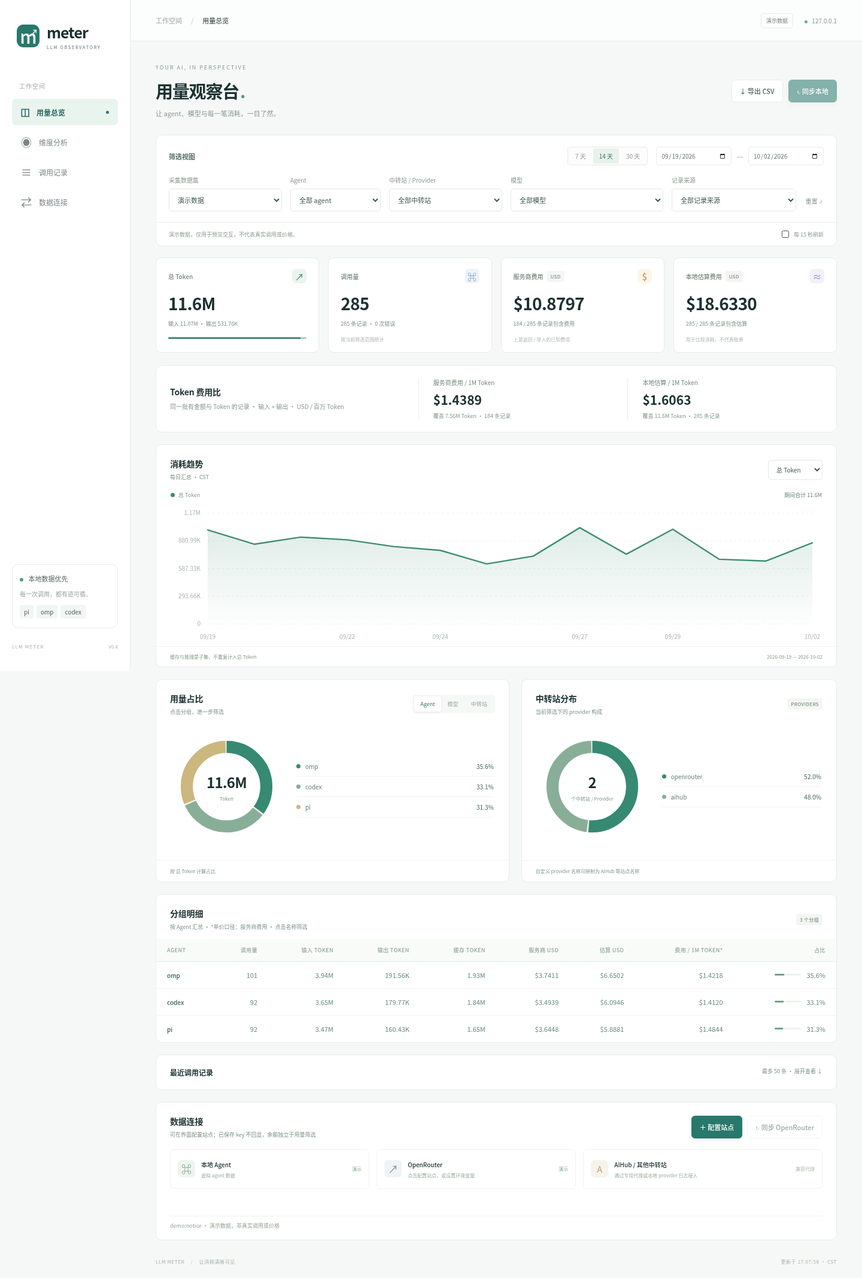
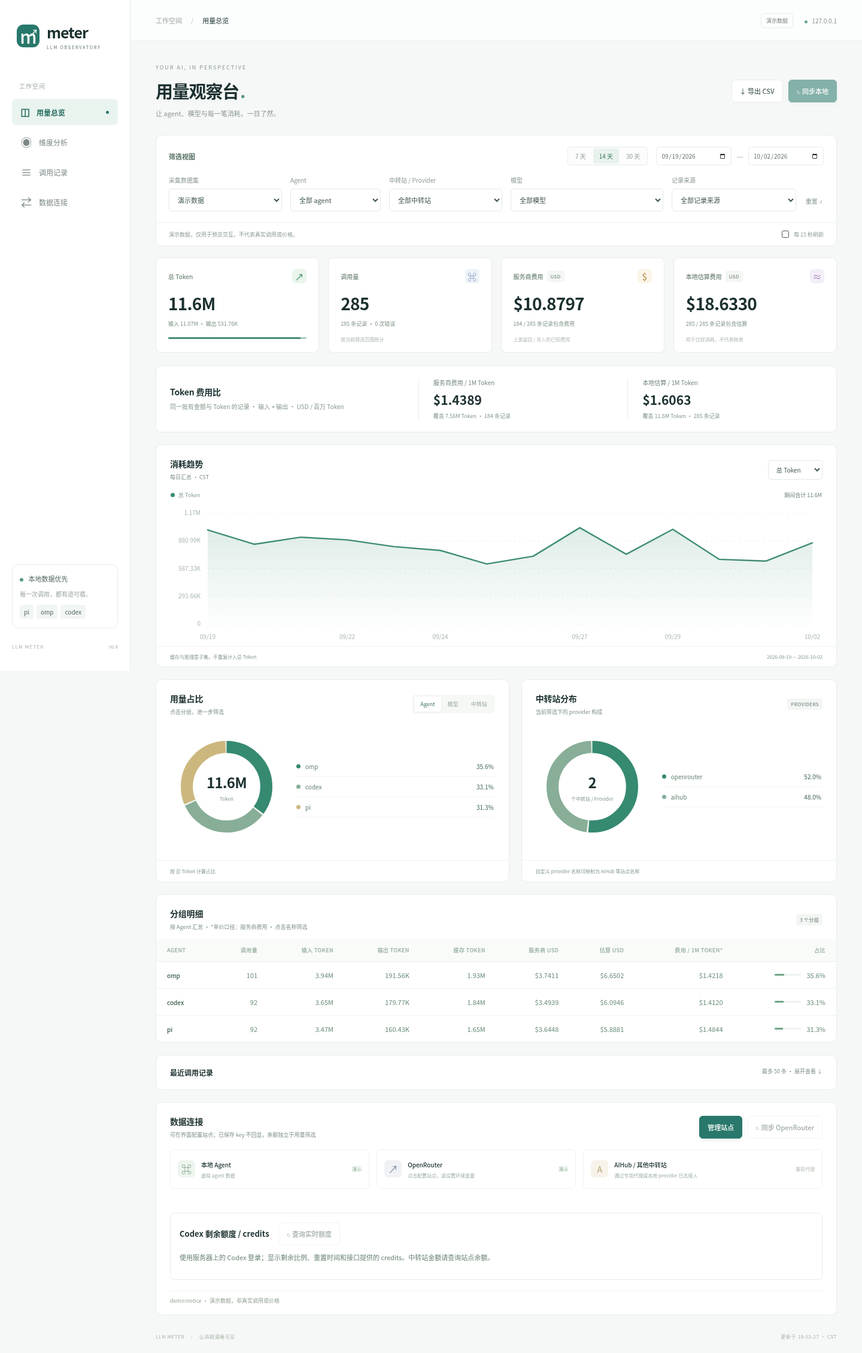
feat: edit saved providers and query DeepSeek balances and Codex quotas

diff --git a/meter_static/app.js b/meter_static/app.js
@@ -75,8 +75,8 @@ function renderRecent(rows){$('recentTable').innerHTML=rows.length?rows.map(r=>`
 function renderConnections(data){const c=data.connections;const available=c.openrouter_key||c.openrouter_management;
 $('localState').textContent=data.demo?'演示':c.local_sync?'已接入':'已暂停';$('localConnection').textContent=data.demo?'虚拟 agent 数据':c.local_sync?'自动扫描 pi · omp · codex':'--no-sync 模式';
 $('routerState').textContent=data.demo?'演示':available?'已配置':'待配置';$('routerConnection').textContent=c.openrouter_management?'管理 key 已配置 · 可同步模型历史':c.openrouter_key?'普通 key 已配置 · 可同步费用摘要':'点击配置站点，或设置环境变量';
-$('routerSyncBtn').disabled=data.demo||!available;$('routerSyncBtn').title=available?'查询远端用量，不发起模型推理':'请先点击配置站点填写 key';$('syncBtn').disabled=data.demo||!c.local_sync;
-const entries=[];for(const snap of data.snapshots){const stamp=new Date(snap.timestamp*1000).toLocaleString('zh-CN',{month:'2-digit',day:'2-digit',hour:'2-digit',minute:'2-digit'});const d=snap.data;if(snap.source==='openrouter:key'){entries.push(`OpenRouter key · ${stamp} · 今日 ${d.usage_daily===null?'未知':dollars(d.usage_daily)} / 本月 ${d.usage_monthly===null?'未知':dollars(d.usage_monthly)} / key 限额剩余 ${d.limit_remaining===null?'未设置':dollars(d.limit_remaining)}（独立摘要，不受筛选影响）`);}else if(d.rate_limits){const limits=Array.isArray(d.rate_limits)?d.rate_limits:[d.rate_limits];for(const limit of limits)for(const key of ['primary','secondary'])if(limit&&limit[key]){const w=limit[key];entries.push(`${snap.source} · ${stamp} · ${key} 已用 ${w.used_percent}% / ${w.window_minutes} 分钟窗口`);}}else if(d.note)entries.push(`${snap.source} · ${d.note}`);}
+$('routerSyncBtn').disabled=data.demo||!available;$('routerSyncBtn').title=available?'查询远端用量，不发起模型推理':'请先点击配置站点填写 key';$('codexLimitsBtn').disabled=data.demo;$('syncBtn').disabled=data.demo||!c.local_sync;
+const entries=[];for(const snap of data.snapshots){const stamp=new Date(snap.timestamp*1000).toLocaleString('zh-CN',{month:'2-digit',day:'2-digit',hour:'2-digit',minute:'2-digit'});const d=snap.data;if(snap.source==='openrouter:key'){entries.push(`OpenRouter key · ${stamp} · 今日 ${d.usage_daily===null?'未知':dollars(d.usage_daily)} / 本月 ${d.usage_monthly===null?'未知':dollars(d.usage_monthly)} / key 限额剩余 ${d.limit_remaining===null?'未设置':dollars(d.limit_remaining)}（独立摘要，不受筛选影响）`);}else if(d.rate_limits){for(const limit of (Array.isArray(d.rate_limits)?d.rate_limits:[d.rate_limits]))if(limit?.credits)entries.push(`${snap.source} · ${stamp} · credits ${limit.credits.unlimited?'不限额':limit.credits.balance??'未知'}（接口 credits，非美元）`);const limits=Array.isArray(d.rate_limits)?d.rate_limits:[d.rate_limits];for(const limit of limits)for(const key of ['primary','secondary'])if(limit&&limit[key]){const w=limit[key];const used=w.usedPercent??w.used_percent;const minutes=w.windowDurationMins??w.window_minutes;const reset=w.resetsAt??w.resets_at;entries.push(`${snap.source}${limit.limitName?' / '+limit.limitName:''} · ${stamp}${d.live?' 实时查询':' 日志快照'} · ${key} 剩余 ${used==null?'未知':Math.max(0,100-used)+'%'} / ${minutes??'未知'} 分钟窗口${reset?' · 重置 '+new Date(reset*1000).toLocaleString('zh-CN'):''}`);}}else if(d.note)entries.push(`${snap.source} · ${d.note}`);}
 $('snapshots').replaceChildren();for(const text of entries){const div=document.createElement('div');div.className='snapshot-item';div.textContent=text;$('snapshots').append(div);}}
 async function sync(endpoint,button){button.disabled=true;feedback('正在同步，请稍候…');try{const response=await fetch(endpoint,{method:'POST',headers:{'Content-Type':'application/json','X-Meter-Request':'1'},body:'{}'});const data=await response.json();if(!response.ok)throw new Error(data.error||'同步失败');feedback(data.message+(data.warnings?.length?' · '+data.warnings.join('；'):''));await load();}catch(error){feedback(error.message,true);}finally{button.disabled=false;if(current)renderConnections(current);}}
 setRange(14);
@@ -85,6 +85,7 @@ document.querySelectorAll('[data-group]').forEach(b=>{b.classList.toggle('select
 for(const id of ['dataset','agent','provider','model','source','metric','money','startDate','endDate'])$(id).onchange=()=>{feedback('');if(id==='dataset')for(const k of ['agent','provider','model','source'])$(k).value='';if(id==='startDate'||id==='endDate')document.querySelectorAll('[data-days]').forEach(b=>b.classList.remove('selected'));load();};
 document.querySelectorAll('[data-days]').forEach(b=>b.onclick=()=>{setRange(Number(b.dataset.days));load();});
 $('resetBtn').onclick=()=>{for(const k of ['agent','provider','model','source'])$(k).value='';setRange(14);feedback('');load();};
+$('codexLimitsBtn').onclick=()=>sync('/api/codex/limits',$('codexLimitsBtn'));
 $('syncBtn').onclick=()=>sync('/api/sync',$('syncBtn'));$('routerSyncBtn').onclick=()=>sync('/api/sync/openrouter',$('routerSyncBtn'));
 $('exportBtn').onclick=()=>{const link=document.createElement('a');link.href='/api/export?'+params();link.download='llm-meter-'+$('startDate').value+'-'+$('endDate').value+'.csv';link.click();};
 setInterval(()=>{if($('autoRefresh').checked&&!document.hidden)load();},15000);
@@ -100,35 +101,38 @@ function renderSites(){
 $('savedSites').replaceChildren();$('balanceCards').replaceChildren();
 if(!siteConfigs.length){const empty=document.createElement('p');empty.className='settings-note';empty.textContent='还没有站点。右侧填写名称、地址和 key 后保存。';$('savedSites').append(empty);}
 for(const item of siteConfigs){
- const div=document.createElement('div');div.className='saved-site';div.innerHTML=`<strong>${escaped(item.name)}</strong><small>${escaped(item.provider)} · ${item.has_api_key?'普通 key 已保存':'无普通 key'}${item.has_management_key?' · 管理 key 已保存':''}</small><div class="site-list-actions"></div>`;
+ const div=document.createElement('div');div.className='saved-site'+($('siteId').value===item.id?' selected':'');div.dataset.siteId=item.id;div.innerHTML=`<strong>${escaped(item.name)}</strong><small>${escaped(item.provider)} · ${item.has_api_key?'普通 key 已保存':'无普通 key'}${item.has_management_key?' · 管理 key 已保存':''}</small><div class="site-list-actions"></div>`;
  const buttons=div.querySelector('.site-list-actions');
  for(const [text,action,danger] of [['编辑',()=>editSite(item),false],['查余额',()=>querySite(item.id),false],...(item.type==='openrouter'?[['同步历史',()=>historySite(item.id),false]]:[]),['删除',()=>deleteSite(item),true]]){const b=document.createElement('button');b.type='button';b.textContent=text;b.className='text-button'+(danger?' danger-button':'');b.onclick=action;buttons.append(b);}
  $('savedSites').append(div);
  const balance=item.balance,card=document.createElement('div');card.className='balance-card';
  const number=balance?.remaining===null||balance?.remaining===undefined?(balance?'未知':'待查询'):new Intl.NumberFormat('zh-CN',{maximumFractionDigits:6}).format(balance.remaining);
  const state=balance?.isValid===false?'已停用':balance?'已查询':'未查询';
- card.innerHTML=`<div class="balance-card-header"><strong>${escaped(item.name)}</strong><span class="status-chip ${balance?.isValid===false?'error':''}">${state}</span></div><div class="balance-number">${number}<span class="balance-unit">${escaped(balance?.unit||(item.currency==='auto'?'':item.currency)||'')}</span></div><div class="balance-meta"></div><button class="text-button" type="button">↻ 查询余额</button>`;
+ card.innerHTML=`<div class="balance-card-header"><strong>${escaped(item.name)}</strong><span class="status-chip ${balance?.isValid===false?'error':''}">${state}</span></div><div class="balance-number">${number}<span class="balance-unit">${escaped(balance?.unit||(item.currency==='auto'?'':item.currency)||'')}</span></div><div class="balance-meta"></div><div class="balance-actions"><button class="button secondary edit-site" type="button">编辑配置</button><button class="text-button query-site" type="button">↻ 查询余额</button></div>`;
  const meta=card.querySelector('.balance-meta');
- const lines=[balance?.scope||('GET '+(item.type==='generic'?balanceEndpoint(item):'OpenRouter 专用接口'))];
+ const lines=[balance?.scope||('GET '+(item.type!=='openrouter'?balanceEndpoint(item):'OpenRouter 专用接口'))];
  if(balance?.key_limit_remaining!==null&&balance?.key_limit_remaining!==undefined)lines.push('普通 key 限额剩余：'+dollars(balance.key_limit_remaining)+'（不等于账户余额）');
  if(balance?.currency_source==='configured')lines.push('按配置币种显示，未换汇'+(balance.reported_unit!==balance.unit?'；接口单位：'+balance.reported_unit:''));
+ if(balance?.balances)for(const row of balance.balances)lines.push(`${row.currency} 可用 ${row.total_balance} · 赠金 ${row.granted_balance} · 充值 ${row.topped_up_balance}`);
  if(balance?.key_summary)lines.push('普通 key 今日费用：'+(balance.key_summary.usage_daily==null?'未知':dollars(balance.key_summary.usage_daily)));
  if(balance?.queried_at)lines.push('采集于 '+new Date(balance.queried_at*1000).toLocaleString('zh-CN'));
  if(item.last_error)lines.push('本次失败：'+item.last_error+'；已显示的余额为上次成功快照');
- meta.textContent=lines.join(' · ');if(item.last_error)meta.classList.add('balance-error');card.querySelector('button').onclick=()=>querySite(item.id);$('balanceCards').append(card);
+ meta.textContent=lines.join(' · ');if(item.last_error)meta.classList.add('balance-error');card.querySelector('.query-site').onclick=()=>querySite(item.id);card.querySelector('.edit-site').onclick=()=>{editSite(item);if(!$('settingsDialog').open)$('settingsDialog').showModal();};$('balanceCards').append(card);
 }}
 function balanceEndpoint(item){try{return new URL(item.base_url).origin+item.balance_path;}catch{return '站点域名/v1/usage';}}
 function updateSiteType(){const router=$('siteType').value==='openrouter';$('managementField').hidden=!router;$('siteBase').disabled=router;$('sitePath').disabled=router;$('siteCurrency').disabled=router;if(router)$('siteCurrency').value='USD';
  if(router){$('siteBase').value='https://openrouter.ai/api/v1';$('sitePath').value='/api/v1/credits';if(!$('siteProvider').value)$('siteProvider').value='openrouter';}
  $('queryRules').innerHTML=router?'普通 key：费用摘要与 key 限额剩余<br>管理 key：账户余额 = total_credits − total_usage；可同步模型历史':'余额：remaining → quota.remaining → balance<br>单位：'+($('siteCurrency').value==='auto'?'unit → quota.unit → USD':'使用配置 '+$('siteCurrency').value+'（不换汇）')+'<br>有效：is_active → isValid → true';
+ if($('siteType').value==='deepseek')$('queryRules').textContent='DeepSeek：total_balance 为可用余额（含赠金与充值）；按接口实际币种选择，不换汇。多币种详情显示在余额卡片。';
  $('endpointPreview').textContent=router?'管理 key 查询账户余额；只有普通 key 时显示 key 摘要':`GET ${balanceEndpoint({base_url:$('siteBase').value,balance_path:$('sitePath').value||'/v1/usage'})} · Authorization: Bearer API key`;
 }
-function newSite(){ $('siteForm').reset();$('siteId').value='';$('siteType').value='generic';$('sitePath').value='/v1/usage';$('siteKey').placeholder='首次填写 API key';$('siteManagementKey').placeholder='可选，OpenRouter 管理 key';settingsMessage('');updateSiteType();}
-function editSite(item){$('siteId').value=item.id;$('siteName').value=item.name;$('siteType').value=item.type;$('siteProvider').value=item.provider;$('siteBase').value=item.base_url;$('sitePath').value=item.balance_path;$('siteCurrency').value=item.currency||'auto';$('siteAliases').value=item.aliases.join(', ');$('siteKey').value='';$('siteManagementKey').value='';$('clearSiteKey').checked=false;$('clearManagementKey').checked=false;$('siteKey').placeholder=item.has_api_key?'已保存 ••••••••，留空保留':'填写 API key';$('siteManagementKey').placeholder=item.has_management_key?'已保存 ••••••••，留空保留':'可选，OpenRouter 管理 key';settingsMessage('');updateSiteType();}
-async function saveSite(andQuery=false){if(!$('siteForm').reportValidity())return;const buttons=[$('saveSiteBtn'),$('saveQueryBtn')];buttons.forEach(b=>b.disabled=true);try{const body={id:$('siteId').value||undefined,name:$('siteName').value,type:$('siteType').value,provider:$('siteProvider').value,base_url:$('siteBase').value,balance_path:$('sitePath').value,currency:$('siteCurrency').value,api_key:$('siteKey').value,management_key:$('siteManagementKey').value,clear_api_key:$('clearSiteKey').checked,clear_management_key:$('clearManagementKey').checked,aliases:$('siteAliases').value.split(/[,，]/).map(x=>x.trim()).filter(Boolean)};const data=await siteRequest('/api/connections/save',body);$('siteId').value=data.id;$('siteKey').value='';$('siteManagementKey').value='';$('clearSiteKey').checked=false;$('clearManagementKey').checked=false;settingsMessage(data.message);await loadSites();const savedSite=siteConfigs.find(x=>x.id===data.id);if(savedSite){$('siteKey').placeholder=savedSite.has_api_key?'已保存 ••••••••，留空保留':'填写 API key';$('siteManagementKey').placeholder=savedSite.has_management_key?'已保存 ••••••••，留空保留':'可选，OpenRouter 管理 key';}await load();if(andQuery)await querySite(data.id);}catch(error){settingsMessage(error.message,true);}finally{buttons.forEach(b=>b.disabled=false);}}
+function setEditState(item){$('siteFormTitle').textContent=item?'编辑站点：'+item.name:'新增站点';$('saveSiteBtn').textContent=item?'保存修改':'保存配置';for(const row of document.querySelectorAll('.saved-site'))row.classList.toggle('selected',row.dataset.siteId===$('siteId').value);}
+function newSite(){ $('siteForm').reset();$('siteId').value='';$('siteType').value='generic';$('sitePath').value='/v1/usage';$('siteKey').placeholder='首次填写 API key';$('siteManagementKey').placeholder='可选，OpenRouter 管理 key';settingsMessage('');updateSiteType();setEditState(null);}
+function editSite(item){$('siteId').value=item.id;$('siteName').value=item.name;$('siteType').value=item.type;$('siteProvider').value=item.provider;$('siteBase').value=item.base_url;$('sitePath').value=item.balance_path;$('siteCurrency').value=item.currency||'auto';$('siteAliases').value=(item.aliases||[]).join(', ');$('siteKey').value='';$('siteManagementKey').value='';$('clearSiteKey').checked=false;$('clearManagementKey').checked=false;$('siteKey').placeholder=item.has_api_key?'已保存 ••••••••，留空保留':'填写 API key';$('siteManagementKey').placeholder=item.has_management_key?'已保存 ••••••••，留空保留':'可选，OpenRouter 管理 key';settingsMessage('');updateSiteType();setEditState(item);}
+async function saveSite(andQuery=false){if(!$('siteForm').reportValidity())return;const buttons=[$('saveSiteBtn'),$('saveQueryBtn')];buttons.forEach(b=>b.disabled=true);try{const body={id:$('siteId').value||undefined,name:$('siteName').value,type:$('siteType').value,provider:$('siteProvider').value,base_url:$('siteBase').value,balance_path:$('sitePath').value,currency:$('siteCurrency').value,api_key:$('siteKey').value,management_key:$('siteManagementKey').value,clear_api_key:$('clearSiteKey').checked,clear_management_key:$('clearManagementKey').checked,aliases:$('siteAliases').value.split(/[,，]/).map(x=>x.trim()).filter(Boolean)};const data=await siteRequest('/api/connections/save',body);$('siteId').value=data.id;$('siteKey').value='';$('siteManagementKey').value='';$('clearSiteKey').checked=false;$('clearManagementKey').checked=false;settingsMessage(data.message);await loadSites();const savedSite=siteConfigs.find(x=>x.id===data.id);if(savedSite){setEditState(savedSite);$('siteKey').placeholder=savedSite.has_api_key?'已保存 ••••••••，留空保留':'填写 API key';$('siteManagementKey').placeholder=savedSite.has_management_key?'已保存 ••••••••，留空保留':'可选，OpenRouter 管理 key';}await load();if(andQuery)await querySite(data.id);}catch(error){settingsMessage(error.message,true);}finally{buttons.forEach(b=>b.disabled=false);}}
 async function querySite(id){settingsMessage('正在查询余额…');try{const data=await siteRequest('/api/connections/query',{id});settingsMessage(data.message);feedback(data.message);}catch(error){settingsMessage(error.message,true);feedback(error.message,true);}finally{await loadSites();}}
 async function historySite(id){settingsMessage('正在同步模型历史…');try{const data=await siteRequest('/api/connections/history',{id});settingsMessage(data.message+(data.warnings?.length?' · '+data.warnings.join('；'):''));await load();}catch(error){settingsMessage(error.message,true);}}
 async function deleteSite(item){if(!confirm('删除 '+item.name+' 的站点配置和保存的 key？已有用量记录保留。'))return;try{await siteRequest('/api/connections/delete',{id:item.id});if($('siteId').value===item.id)newSite();await loadSites();await load();settingsMessage('站点配置已删除');}catch(error){settingsMessage(error.message,true);}}
-$('configureSitesBtn').onclick=()=>{newSite();$('settingsDialog').showModal();loadSites();};$('closeSettingsBtn').onclick=()=>$('settingsDialog').close();$('newSiteBtn').onclick=newSite;
-$('siteType').onchange=()=>{if($('siteType').value==='generic'){$('siteBase').value='';$('sitePath').value='/v1/usage';}updateSiteType();};$('siteBase').oninput=updateSiteType;$('sitePath').oninput=updateSiteType;$('siteCurrency').onchange=updateSiteType;
+$('configureSitesBtn').onclick=async()=>{await loadSites();if(siteConfigs.length)editSite(siteConfigs[0]);else newSite();$('settingsDialog').showModal();};$('closeSettingsBtn').onclick=()=>$('settingsDialog').close();$('newSiteBtn').onclick=newSite;
+$('siteType').onchange=()=>{if($('siteType').value==='deepseek'){$('siteBase').value='https://api.deepseek.com';$('sitePath').value='/user/balance';$('siteProvider').value='deepseek';$('siteCurrency').value='auto';}if($('siteType').value==='generic'){$('siteBase').value='';$('sitePath').value='/v1/usage';}updateSiteType();};$('siteBase').oninput=updateSiteType;$('sitePath').oninput=updateSiteType;$('siteCurrency').onchange=updateSiteType;
 $('siteForm').onsubmit=e=>{e.preventDefault();saveSite();};$('saveQueryBtn').onclick=()=>saveSite(true);

diff --git a/meter_static/index.html b/meter_static/index.html
@@ -56,7 +56,7 @@
   </section>
   <section class="panel table-panel"><div class="panel-heading"><div><h2>分组明细</h2><p id="tableSubtitle">按 Agent 汇总</p></div><span id="groupCount" class="small-tag"></span></div><div class="table-scroll"><table><thead><tr><th id="dimensionLabel">AGENT</th><th>调用量</th><th>输入 TOKEN</th><th>输出 TOKEN</th><th>缓存 TOKEN</th><th>服务商 USD</th><th>估算 USD</th><th>费用 / 1M TOKEN*</th><th>占比</th></tr></thead><tbody id="groupTable"></tbody></table></div></section>
   <details class="panel records-panel" id="records"><summary><span>最近调用记录</span><span class="records-hint">最多 50 条 · 展开查看 ↓</span></summary><div class="table-scroll"><table><thead><tr><th>时间</th><th>Agent</th><th>中转站</th><th>模型</th><th>TOKEN</th><th>服务商 USD</th><th>估算 USD</th><th>状态</th></tr></thead><tbody id="recentTable"></tbody></table></div></details>
-  <section class="panel connection-panel" id="connections"><div class="panel-heading"><div><h2>数据连接</h2><p>可在界面配置站点；已保存 key 不回显，余额独立于用量筛选</p></div><div class="connection-actions"><button id="configureSitesBtn" class="button primary">＋ 配置站点</button><button id="routerSyncBtn" class="button secondary">↻ 同步 OpenRouter</button></div></div><div class="connection-grid"><div class="connection-item"><span class="connection-logo">⌘</span><div><strong>本地 Agent</strong><p id="localConnection">pi · omp · codex</p></div><span class="connection-status" id="localState">就绪</span></div><div class="connection-item"><span class="connection-logo router">↗</span><div><strong>OpenRouter</strong><p id="routerConnection">等待配置环境变量</p></div><span class="connection-status" id="routerState">待接入</span></div><div class="connection-item"><span class="connection-logo hub">A</span><div><strong>AIHub / 其他中转站</strong><p>通过专用代理或本地 provider 日志接入</p></div><span class="connection-status muted">兼容代理</span></div></div><div id="balanceCards" class="balance-cards"></div><div id="snapshots" class="snapshot-list"></div></section>
+  <section class="panel connection-panel" id="connections"><div class="panel-heading"><div><h2>数据连接</h2><p>可在界面配置站点；已保存 key 不回显，余额独立于用量筛选</p></div><div class="connection-actions"><button id="configureSitesBtn" class="button primary">管理站点</button><button id="routerSyncBtn" class="button secondary">↻ 同步 OpenRouter</button></div></div><div class="connection-grid"><div class="connection-item"><span class="connection-logo">⌘</span><div><strong>本地 Agent</strong><p id="localConnection">pi · omp · codex</p></div><span class="connection-status" id="localState">就绪</span></div><div class="connection-item"><span class="connection-logo router">↗</span><div><strong>OpenRouter</strong><p id="routerConnection">等待配置环境变量</p></div><span class="connection-status" id="routerState">待接入</span></div><div class="connection-item"><span class="connection-logo hub">A</span><div><strong>AIHub / 其他中转站</strong><p>通过专用代理或本地 provider 日志接入</p></div><span class="connection-status muted">兼容代理</span></div></div><div id="balanceCards" class="balance-cards"></div><div class="codex-quota"><strong>Codex 剩余额度 / credits</strong><button id="codexLimitsBtn" class="button secondary">↻ 查询实时额度</button><p>使用服务器上的 Codex 登录；显示剩余比例、重置时间和接口提供的 credits。中转站金额请查询站点余额。</p></div><div id="snapshots" class="snapshot-list"></div></section>
   <div id="qualityNotes" class="quality-note"></div>
   <footer class="page-footer"><span>LLM METER <span class="footer-divider">/</span> 让消耗清晰可见</span><span id="updatedAt">等待数据</span></footer>
 </div>
@@ -65,10 +65,10 @@
   <div class="settings-heading"><div><h2>站点配置</h2><p>填写站点地址和 key，即可查询余额；保存后立即生效。</p></div><button id="closeSettingsBtn" class="close-button" aria-label="关闭配置">×</button></div>
   <div id="settingsFeedback" class="feedback" role="status" hidden></div>
   <div class="settings-layout"><div class="saved-sites"><div class="saved-heading">已配置站点<button id="newSiteBtn" class="text-button">＋ 新增</button></div><div id="savedSites"></div><p class="settings-note">凭证仅存服务端数据库旁的配置文件，权限 600；文件为明文，请保护该机器账号。演示模式配置退出即清理。</p></div>
-  <form id="siteForm" autocomplete="off"><input id="siteId" type="hidden">
+  <form id="siteForm" autocomplete="off"><input id="siteId" type="hidden"><h3 id="siteFormTitle">新增站点</h3>
     <div class="site-form-grid">
     <label>站点名称<input id="siteName" required maxlength="80" placeholder="例如 AIHub"></label>
-    <label>查询类型<select id="siteType"><option value="generic">通用中转站 · /v1/usage</option><option value="openrouter">OpenRouter · 专用接口</option></select></label>
+    <label>查询类型<select id="siteType"><option value="generic">通用中转站 · /v1/usage</option><option value="deepseek">DeepSeek · 官方余额接口</option><option value="openrouter">OpenRouter · 专用接口</option></select></label>
     <label>Provider ID<input id="siteProvider" required maxlength="80" placeholder="例如 aihub"></label>
     <label>Base URL<input id="siteBase" type="url" placeholder="https://你的站点" required></label>
     <label class="full-width">余额路径<input id="sitePath" value="/v1/usage" placeholder="/v1/usage"><small id="endpointPreview">GET 站点域名/v1/usage · Authorization: Bearer API key</small></label>

diff --git a/meter_static/style.css b/meter_static/style.css
@@ -9,3 +9,7 @@
 .unit-panel{display:grid;grid-template-columns:1.2fr 1fr 1fr;gap:24px;align-items:center;padding:20px 23px;margin-bottom:20px}.unit-panel p{font-size:10px;color:#83998a;line-height:1.8;margin:0}.unit-stat{display:flex;flex-direction:column;border-left:1px solid var(--line);padding-left:24px;gap:6px}.unit-stat>span{font-size:10px;color:#73887a}.unit-stat strong{font-size:21px;font-weight:600;font-variant-numeric:tabular-nums}.unit-stat small{font-size:9px;color:#83998a}@media(max-width:600px){.unit-panel{grid-template-columns:1fr 1fr;padding:17px 16px;gap:16px}.unit-panel>div:first-child{grid-column:1/-1}.unit-stat{padding-left:0;border-left:0}.unit-stat strong{font-size:20px}.unit-stat small{font-size:8px}}
 
 .connection-actions{display:flex;gap:8px}.balance-cards{display:grid;grid-template-columns:repeat(3,minmax(0,1fr));gap:12px;padding:0 23px 18px}.balance-card{border:1px solid var(--line);border-radius:8px;padding:15px}.balance-card-header{display:flex;justify-content:space-between;gap:8px;align-items:center;font-size:11px}.balance-card-header strong{overflow:hidden;text-overflow:ellipsis;white-space:nowrap}.balance-number{font-size:24px;margin:15px 0 7px;font-variant-numeric:tabular-nums;font-weight:600}.balance-unit{font-size:10px;color:#81958a;margin-left:7px}.balance-meta{font-size:9px;color:#83998a;line-height:1.8;overflow-wrap:anywhere}.balance-error{color:#b17c5d}.text-button{border:0;background:none;color:#33765e;font-size:10px;cursor:pointer;padding:4px}.settings-dialog{width:min(900px,calc(100vw - 28px));max-height:90vh;border:1px solid var(--line);border-radius:14px;padding:25px;color:var(--ink);box-shadow:0 20px 90px #18302830}.settings-dialog::backdrop{background:#1a302650;backdrop-filter:blur(3px)}.settings-heading{display:flex;justify-content:space-between;align-items:center;padding-bottom:20px}.settings-heading h2{font-size:19px}.settings-heading p{font-size:11px;color:#83998a;margin:7px 0 0}.close-button{border:0;background:#f1f6f2;border-radius:6px;color:#7a8f80;width:30px;height:30px;font-size:22px}.settings-layout{display:grid;grid-template-columns:240px 1fr;gap:25px}.saved-sites{border-right:1px solid var(--line);padding-right:20px}.saved-heading{font-size:11px;font-weight:600;display:flex;justify-content:space-between;align-items:center;margin-bottom:12px}.saved-site{border:1px solid var(--line);border-radius:7px;padding:11px;margin-bottom:10px}.saved-site strong{display:block;font-size:11px;overflow-wrap:anywhere}.saved-site small{display:block;color:#85988a;font-size:9px;margin:6px 0;overflow-wrap:anywhere}.site-list-actions{display:flex;gap:6px;flex-wrap:wrap}.site-list-actions button{padding:4px 0;font-size:9px}.danger-button{color:#b88066}.settings-note{font-size:9px;line-height:1.9;color:#8d9e92}.site-form-grid{display:grid;grid-template-columns:1fr 1fr;gap:14px}.site-form-grid label{display:flex;flex-direction:column;gap:7px;font-size:10px;color:#698372}.site-form-grid input:not([type=checkbox]){width:100%;padding:10px 11px;border:1px solid #e3e9e5;border-radius:5px;color:#41594d;font:inherit;font-size:11px}.site-form-grid input:disabled{background:#f5f8f5;color:#859589}.site-form-grid small{font-size:9px;color:#8c9d91;line-height:1.7;overflow-wrap:anywhere}.full-width{grid-column:1/-1}.site-form-grid .key-clear{display:flex;gap:6px;align-items:center;font-size:9px;color:#8c9d91}.key-clear input{accent-color:#368a71}.query-rules{padding:12px 14px;margin:15px 0;background:#f4f8f5;border-radius:6px;color:#7c9482;font-size:10px;line-height:1.9}.form-actions{display:flex;gap:9px;justify-content:flex-end}.settings-dialog .feedback{margin-bottom:16px}.site-form-grid [hidden]{display:none!important}@media(max-width:900px){.balance-cards{grid-template-columns:repeat(2,minmax(0,1fr))}}@media(max-width:600px){.balance-cards{grid-template-columns:1fr;padding:0 16px 16px}.connection-panel .panel-heading{align-items:flex-start;flex-direction:column}.connection-actions{align-self:flex-end}.settings-dialog{padding:18px}.settings-layout{grid-template-columns:1fr}.saved-sites{border-right:0;border-bottom:1px solid var(--line);padding:0 0 12px}.settings-heading p{font-size:10px}.site-form-grid{grid-template-columns:1fr}.site-form-grid .full-width{grid-column:auto}.balance-number{font-size:23px}}
+
+.balance-actions{display:flex;gap:12px;align-items:center;margin-top:12px}.saved-site.selected{border-color:#368a71;background:#f4f8f5}.site-list-actions button{font-size:12px;padding:7px 3px}#siteFormTitle{font-size:15px;margin:0 0 16px}
+
+.codex-quota{margin:0 23px 18px;padding:15px;border:1px solid var(--line);border-radius:8px}.codex-quota strong{font-size:13px;margin-right:15px}.codex-quota p{font-size:11px;color:#698372;line-height:1.8}

diff --git a/llm_meter_connections.py b/llm_meter_connections.py
@@ -55,6 +55,20 @@ def extract_balance(response,currency="auto"):
             'isValid':bool(valid),'scope':'接口返回余额'}
 
 
+def extract_deepseek_balance(response, currency="auto"):
+    if not isinstance(response, dict):raise ValueError('DeepSeek 余额响应格式无效')
+    rows=response.get('balance_infos')
+    if not isinstance(rows,list) or not rows:raise ValueError('DeepSeek 未返回账户余额')
+    if currency not in ('auto','USD','CNY'):raise ValueError('DeepSeek 币种无效')
+    selected=next((r for r in rows if isinstance(r,dict) and (currency=='auto' or r.get('currency')==currency)),None)
+    if selected is None:raise ValueError('DeepSeek 未返回所选币种余额；请选择跟随接口')
+    result=extract_balance({'remaining':selected.get('total_balance'),'unit':selected.get('currency'),
+                            'is_active':response.get('is_available',True)})
+    result.update(scope='DeepSeek 账户余额（含赠金和充值）',balances=rows,
+                  granted_balance=selected.get('granted_balance'),topped_up_balance=selected.get('topped_up_balance'))
+    return result
+
+
 class Connections:
     def __init__(self,path):
         self.path=Path(path)
@@ -106,10 +120,10 @@ class Connections:
             provider=str(data.get('provider') or '').strip()
             kind=data.get('type','generic')
             if not name or len(name)>80 or not provider or len(provider)>80:raise ValueError('请填写站点名称和 Provider ID（最多 80 字符）')
-            if kind not in ('generic','openrouter'):raise ValueError('无效的查询类型')
+            if kind not in ('generic','openrouter','deepseek'):raise ValueError('无效的查询类型')
             base='https://openrouter.ai/api/v1' if kind=='openrouter' else normalize_base(data.get('base_url'))
-            path=data.get('balance_path') or '/v1/usage'
-            if kind=='generic':balance_url(base,path)
+            path=data.get('balance_path') or ('/user/balance' if kind=='deepseek' else '/v1/usage')
+            if kind in ('generic','deepseek'):balance_url(base,path)
             currency=data.get('currency',old.get('currency','auto'))
             if currency not in ('auto','USD','CNY'):raise ValueError('币种必须是跟随接口、USD 或 CNY')
             if kind=='openrouter':
@@ -129,7 +143,7 @@ class Connections:
                     raise ValueError('凭证格式无效')
                 # Blank edit means keep stored value; explicit checkbox clears it.
                 row[key]='' if data.get('clear_'+key) else (value.strip() if value and value.strip() else old.get(key,''))
-            if kind=='generic' and not row['api_key']:raise ValueError('请填写 API key')
+            if kind in ('generic','deepseek') and not row['api_key']:raise ValueError('请填写 API key')
             if kind=='openrouter' and not row['api_key'] and not row['management_key']:raise ValueError('请填写普通 key 或管理 key')
             before=self.items
             self.items=[x for x in self.items if x['id']!=ident]+[row]
@@ -150,6 +164,8 @@ class Connections:
         try:
             if item['type']=='generic':
                 balance=extract_balance(get_json(balance_url(item['base_url'],item['balance_path']),item['api_key']),item.get('currency','auto'))
+            elif item['type']=='deepseek':
+                balance=extract_deepseek_balance(get_json(balance_url(item['base_url'],item['balance_path']),item['api_key']),item.get('currency','auto'))
             else:
                 balance={'remaining':None,'unit':'USD','isValid':True,'scope':'账户余额需管理 key'}
                 if item.get('api_key'):

diff --git a/llm_meter_codex.py b/llm_meter_codex.py
@@ -1,0 +1,52 @@
+"""Read-only Codex app-server quota query; never starts an inference turn."""
+import json
+import os
+from pathlib import Path
+import queue
+import subprocess
+import threading
+import time
+
+
+def read_codex_limits(home, timeout=25):
+    env=dict(os.environ, CODEX_HOME=str(Path(home).expanduser().resolve()))
+    try:
+        proc=subprocess.Popen(['codex','app-server','--listen','stdio://'],stdin=subprocess.PIPE,
+                              stdout=subprocess.PIPE,stderr=subprocess.DEVNULL,text=True,env=env)
+    except OSError:raise ValueError('未找到 Codex CLI；请安装 Codex 并在此机器执行 codex login') from None
+    messages=queue.Queue()
+    def reader():
+        for line in proc.stdout:
+            try:messages.put(json.loads(line))
+            except ValueError:pass
+        messages.put(None)
+    thread=threading.Thread(target=reader,daemon=True);thread.start()
+    deadline=time.monotonic()+timeout
+    def send(message):
+        proc.stdin.write(json.dumps(message)+'\n');proc.stdin.flush()
+    def rpc(ident,method,params=None):
+        send({'id':ident,'method':method,'params':params or {}})
+        while True:
+            try:message=messages.get(timeout=max(.001,deadline-time.monotonic()))
+            except queue.Empty:raise ValueError('Codex 额度查询超时；请检查网络与登录状态') from None
+            if message is None:raise ValueError('Codex app-server 已退出；请检查 CLI 版本与配置')
+            if message.get('id')!=ident:continue
+            if 'error' in message:raise ValueError('Codex 无法查询额度；请检查登录状态，API key 模式请查询对应服务商余额')
+            return message.get('result',{})
+    try:
+        rpc(1,'initialize',{'clientInfo':{'name':'llm_meter','title':'LLM Meter','version':'0.4.0'}})
+        send({'method':'initialized','params':{}})
+        result=rpc(2,'account/rateLimits/read')
+        buckets=result.get('rateLimitsByLimitId') or {'codex':result.get('rateLimits')}
+        limits=[v for v in buckets.values() if isinstance(v,dict)]
+        if not limits:raise ValueError('Codex 未返回额度；请确认此机器已使用 ChatGPT 账户登录')
+        # Do not expose account identifiers, email, tokens or raw RPC responses.
+        return {'rate_limits':[{k:v.get(k) for k in ('limitId','limitName','primary','secondary','credits','planType')} for v in limits],
+                'live':True,'note':'Codex 实时额度；剩余比例不是货币余额'}
+    except (OSError,BrokenPipeError):raise ValueError('Codex 额度查询失败；请检查 CLI 与登录状态') from None
+    finally:
+        if proc.poll() is None:proc.terminate()
+        try:proc.wait(timeout=3)
+        except subprocess.TimeoutExpired:proc.kill();proc.wait()
+        thread.join(timeout=1)
+        proc.stdin.close();proc.stdout.close()

diff --git a/tests/test_connections.py b/tests/test_connections.py
@@ -14,7 +14,7 @@ from http.server import BaseHTTPRequestHandler,ThreadingHTTPServer
 from unittest.mock import patch
 
 sys.path.insert(0,str(Path(__file__).resolve().parents[1]))
-from llm_meter_connections import Connections,balance_url,extract_balance
+from llm_meter_connections import Connections,balance_url,extract_balance,extract_deepseek_balance
 
 
 class ConnectionTests(unittest.TestCase):
@@ -55,6 +55,20 @@ class ConnectionTests(unittest.TestCase):
         loaded=Connections(self.path)
         with patch('llm_meter_connections.get_json',return_value={'balance':7,'unit':'CNY'}):
             self.assertEqual(loaded.query(ident)['unit'],'CNY')
+    def test_deepseek_native_currency_and_edit(self):
+        raw={'is_available':False,'balance_infos':[{'currency':'CNY','total_balance':'0','granted_balance':'0','topped_up_balance':'0'}, {'currency':'USD','total_balance':'8.5','granted_balance':'1','topped_up_balance':'7.5'}]}
+        self.assertEqual(extract_deepseek_balance(raw)['remaining'],0)
+        self.assertFalse(extract_deepseek_balance(raw)['isValid'])
+        self.assertEqual(extract_deepseek_balance(raw,'USD')['remaining'],8.5)
+        with self.assertRaises(ValueError):extract_deepseek_balance({'balance_infos':raw['balance_infos'][:1]},'USD')
+        ident=self.sites.save({'name':'DeepSeek','provider':'deepseek','type':'deepseek','base_url':'https://api.deepseek.com','api_key':'old'})
+        self.sites.save({'id':ident,'name':'Updated','provider':'deepseek','type':'deepseek','base_url':'https://api.deepseek.com/v1','api_key':'new','currency':'USD'})
+        with patch('llm_meter_connections.get_json',return_value=raw) as fetch:
+            self.assertEqual(self.sites.query(ident)['remaining'],8.5)
+            fetch.assert_called_once_with('https://api.deepseek.com/user/balance','new')
+        self.assertEqual(len(self.sites.public()),1)
+        self.assertEqual(self.sites.public()[0]['name'],'Updated')
+
     def test_openrouter_currency_is_usd(self):
         ident=self.sites.save({'name':'Router','provider':'openrouter','type':'openrouter','api_key':'key'})
         self.assertEqual(self.sites.get(ident)['currency'],'USD')

diff --git a/tests/test_codex.py b/tests/test_codex.py
@@ -1,0 +1,36 @@
+import os
+from pathlib import Path
+import tempfile
+import unittest
+from unittest.mock import patch
+from llm_meter_codex import read_codex_limits
+
+
+class CodexQuotaTests(unittest.TestCase):
+    def test_rpc_handshake_quota_and_cleanup(self):
+        with tempfile.TemporaryDirectory() as folder:
+            executable=Path(folder)/'codex'
+            executable.write_text('''#!/usr/bin/env python3
+import json,sys
+for line in sys.stdin:
+ r=json.loads(line)
+ if r['method']=='initialize':
+  assert r['params']['clientInfo']['name']=='llm_meter'
+  print(json.dumps({'id':r['id'],'result':{}}),flush=True)
+ elif r['method']=='initialized':pass
+ elif r['method']=='account/rateLimits/read':
+  print(json.dumps({'method':'account/updated','params':{'email':'private'}}),flush=True)
+  print(json.dumps({'id':r['id'],'result':{'rateLimitsByLimitId':{'codex':{'primary':{'usedPercent':25,'resetsAt':123},'credits':{'balance':'12'}}},'secret':'private'}}),flush=True)
+ else:raise RuntimeError('Unexpected RPC')
+''')
+            executable.chmod(0o700)
+            with patch.dict(os.environ,{'PATH':folder+os.pathsep+os.environ['PATH']}):
+                result=read_codex_limits(folder,timeout=2)
+            self.assertEqual(result['rate_limits'][0]['primary']['usedPercent'],25)
+            self.assertEqual(result['rate_limits'][0]['credits']['balance'],'12')
+            self.assertTrue(result['live'])
+            self.assertNotIn('private',str(result))
+
+    def test_missing_cli_actionable_error(self):
+        with patch('llm_meter_codex.subprocess.Popen',side_effect=FileNotFoundError):
+            with self.assertRaisesRegex(ValueError,'Codex CLI'):read_codex_limits('/tmp')

diff --git a/llm_meter_web.py b/llm_meter_web.py
@@ -14,6 +14,7 @@ import time
 import urllib.parse
 from http.server import BaseHTTPRequestHandler, ThreadingHTTPServer
 
+from llm_meter_codex import read_codex_limits
 from llm_meter_connections import Connections
 from llm_meter import Store, sync_codex, sync_pi_family, sync_openrouter
 
@@ -272,6 +273,14 @@ def run_web(args):
                         try:warnings=sync_openrouter(store,item.get('api_key'),item.get('management_key'),namespace=item['id'])
                         finally:store.close()
                     self.send(200,{'message':'OpenRouter 历史已同步','warnings':warnings})
+                elif self.path=='/api/codex/limits':
+                    if args.demo:raise ValueError('演示模式不查询真实 Codex 额度')
+                    with lock:
+                        result=read_codex_limits(args.codex_home)
+                        store=Store(db_path)
+                        try:store.snapshot('codex:live',result);store.db.commit()
+                        finally:store.close()
+                    self.send(200,{'message':'Codex 实时额度已更新'})
                 elif self.path=='/api/sync':
                     sync_local(True)
                     self.send(200,{'message':'本地会话已同步','warnings':state['warnings']})

diff --git a/README.md b/README.md
@@ -846,3 +846,31 @@ python3 llm_meter.py --db ./usage-backup.sqlite3 dashboard --no-sync
 ### 可以查看 agent 的子任务或按 agent 筛选吗
 
 网页已支持独立 agent 维度；本地日志自动区分 pi、omp、codex，代理通过 --agent 显式标记，远端记录需可信的专用 key 映射。子 agent 维度仍未实现；没有依据的归属保留为未知。
+
+
+## 编辑已保存站点、DeepSeek 与 Codex 实时额度
+
+保存配置后可随时修改：在「数据连接」的站点余额卡片点击 **编辑配置**，或点击 **管理站点 → 编辑**。修改名称、地址、余额路径、Provider、别名、币种或密钥后点击 **保存修改**；立即生效，无需重启。密钥留空保留原值，输入新密钥替换；不会回显已保存密钥。OpenRouter 官方地址和 USD 固定，其他字段可编辑。
+
+### DeepSeek 官方账户
+
+1. 「管理站点 → 新增」，查询类型选择 **DeepSeek · 官方余额接口**。
+2. 名称填 DeepSeek，Provider ID 填 `deepseek`；自动填入 Base URL `https://api.deepseek.com` 和余额路径 `/user/balance`。
+3. 填写 DeepSeek API key，币种建议 **跟随接口**，点击 **保存并查余额**。
+4. 卡片显示可用余额、赠金和充值余额，支持接口返回的 CNY / USD；选择固定币种会选择对应币种账户，缺失时提示错误，不换汇或重标金额。
+
+余额协议见 [DeepSeek 官方文档](https://api-docs.deepseek.com/zh-cn/api/get-user-balance/)。余额接口不能提供完整调用历史；agent、模型、token 用量仍通过 pi/omp 本地日志、专用 OpenAI 兼容代理或数据导入接入。代理 upstream 可设置为 `https://api.deepseek.com`，Provider 设置 `deepseek`，agent 填实际调用客户端。
+
+### Codex 随时查看剩余额度
+
+「数据连接 → Codex 剩余额度 / credits → 查询实时额度」调用服务器上 `codex app-server` 的只读 `account/rateLimits/read`，显示各窗口剩余比例、重置时间、查询时间及接口提供的 credits。不会启动推理任务。普通页面自动刷新读取已保存快照；需要新的账户额度时再次点击查询。日志快照与实时查询均明确标注来源和时间，失败保留上次快照。
+
+先在运行此工具的机器安装 Codex CLI，并用 ChatGPT 账户执行 `codex login`。自定义登录目录可用：
+
+```sh
+python3 llm_meter.py web --codex-home /path/to/codex-home
+```
+
+额度不是美元账户余额。仅 API key / 中转站登录不保证支持此额度接口，请在站点卡片查询供应商金额余额。credits 按接口原值显示，不推断币种。服务商未返回 credits 时不会虚构金额。部署在另一台机器时，额度属于该机器的 Codex 登录账号；导入用量 JSONL 不会同步登录状态或实时额度。不需要在网页粘贴 Codex 登录 token。
+
+接口说明见 [OpenAI 官方 app-server 文档](https://learn.chatgpt.com/docs/app-server)。演示模式不连接真实服务。

diff --git a/INTEGRATION.md b/INTEGRATION.md
@@ -499,3 +499,31 @@ API key  = 中心代理 LOCAL_METER_KEY 的实际值
 - 是否已有 OpenRouter 管理 key，以及是否能给各 agent 分配独立推理 key。
 
 有这些信息后，可以进一步给出与你实际版本匹配的 agent 配置，而不把某一种客户端的配置格式当成通用格式。
+
+
+## 编辑已保存站点、DeepSeek 与 Codex 实时额度
+
+保存配置后可随时修改：在「数据连接」的站点余额卡片点击 **编辑配置**，或点击 **管理站点 → 编辑**。修改名称、地址、余额路径、Provider、别名、币种或密钥后点击 **保存修改**；立即生效，无需重启。密钥留空保留原值，输入新密钥替换；不会回显已保存密钥。OpenRouter 官方地址和 USD 固定，其他字段可编辑。
+
+### DeepSeek 官方账户
+
+1. 「管理站点 → 新增」，查询类型选择 **DeepSeek · 官方余额接口**。
+2. 名称填 DeepSeek，Provider ID 填 `deepseek`；自动填入 Base URL `https://api.deepseek.com` 和余额路径 `/user/balance`。
+3. 填写 DeepSeek API key，币种建议 **跟随接口**，点击 **保存并查余额**。
+4. 卡片显示可用余额、赠金和充值余额，支持接口返回的 CNY / USD；选择固定币种会选择对应币种账户，缺失时提示错误，不换汇或重标金额。
+
+余额协议见 [DeepSeek 官方文档](https://api-docs.deepseek.com/zh-cn/api/get-user-balance/)。余额接口不能提供完整调用历史；agent、模型、token 用量仍通过 pi/omp 本地日志、专用 OpenAI 兼容代理或数据导入接入。代理 upstream 可设置为 `https://api.deepseek.com`，Provider 设置 `deepseek`，agent 填实际调用客户端。
+
+### Codex 随时查看剩余额度
+
+「数据连接 → Codex 剩余额度 / credits → 查询实时额度」调用服务器上 `codex app-server` 的只读 `account/rateLimits/read`，显示各窗口剩余比例、重置时间、查询时间及接口提供的 credits。不会启动推理任务。普通页面自动刷新读取已保存快照；需要新的账户额度时再次点击查询。日志快照与实时查询均明确标注来源和时间，失败保留上次快照。
+
+先在运行此工具的机器安装 Codex CLI，并用 ChatGPT 账户执行 `codex login`。自定义登录目录可用：
+
+```sh
+python3 llm_meter.py web --codex-home /path/to/codex-home
+```
+
+额度不是美元账户余额。仅 API key / 中转站登录不保证支持此额度接口，请在站点卡片查询供应商金额余额。credits 按接口原值显示，不推断币种。服务商未返回 credits 时不会虚构金额。部署在另一台机器时，额度属于该机器的 Codex 登录账号；导入用量 JSONL 不会同步登录状态或实时额度。不需要在网页粘贴 Codex 登录 token。
+
+接口说明见 [OpenAI 官方 app-server 文档](https://learn.chatgpt.com/docs/app-server)。演示模式不连接真实服务。
